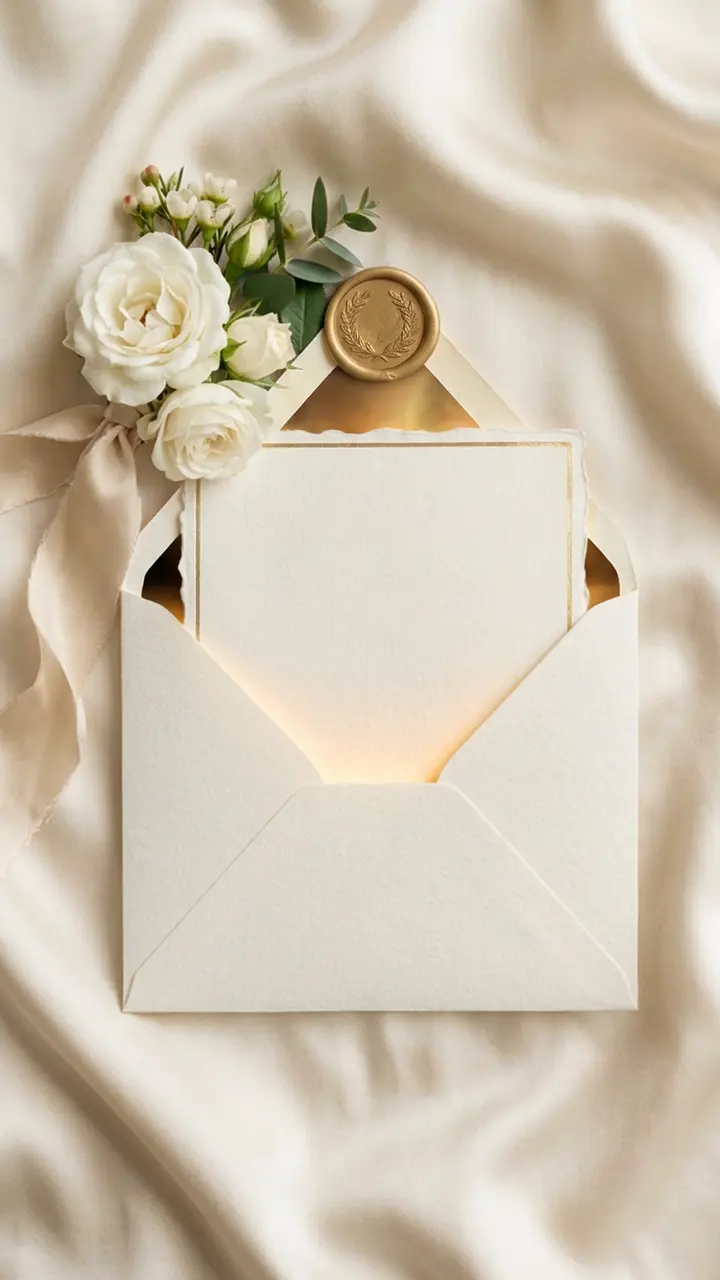
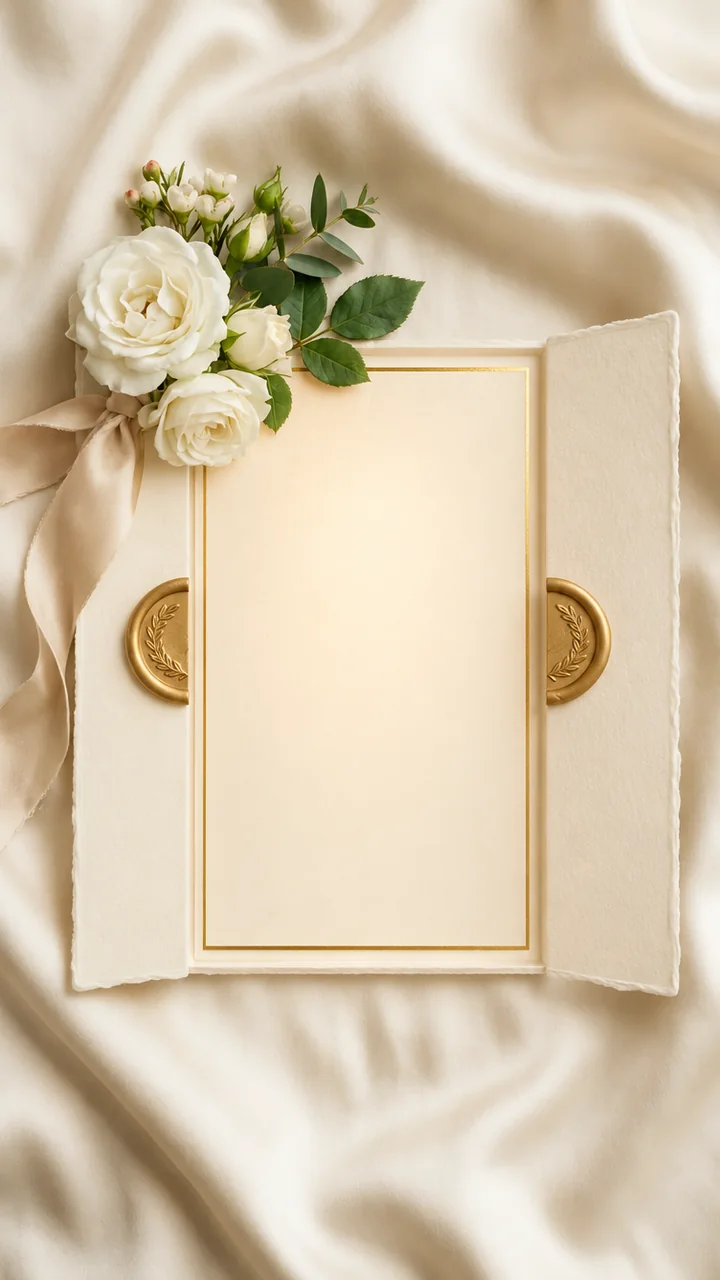
Marfil: apertura vertical de principio a fin
El video de Higgsfield saltaba a los 0,3 s del tríptico vertical a un sobre
horizontal. Se apaga el video (video: false) y el sobre abierto pasa a ser el
mismo tríptico vertical con las puertas abiertas; los nombres quedan sobre la
tarjeta interior (cardY .5).

Claude-Session: https://claude.ai/code/session_01UKeM7nHN56kvTXmo6aFA6n

diff --git a/models.js b/models.js
@@ -3,9 +3,9 @@
 // cardY: altura (0–1) de la tarjeta dentro de abierto.webp, donde aparecen los nombres al abrir.
 // heroY: altura (0–1) del bloque de texto sobre la portada.
 window.MODELOS = [
-  { id: "marfil", name: "Marfil", family: "Elegante", layout: "arco",
+  { id: "marfil", video: false, name: "Marfil", family: "Elegante", layout: "arco",
     blurb: "Papel de algodón con bordes rasgados, sello dorado y un arco clásico de rosas blancas.",
-    cardY: .45, cardInk: "#6b5a3e", heroY: .48, heroInk: "#5c4a2e",
+    cardY: .5, cardInk: "#6b5a3e", heroY: .48, heroInk: "#5c4a2e",
     title: "'Cormorant Garamond', serif", italic: true, body: "'Cormorant Garamond', serif",
     paper: "#fbf7f0", ink: "#4a3d2a", accent: "#b8964f" },
   { id: "medianoche", name: "Medianoche", family: "Elegante", layout: "noche",
